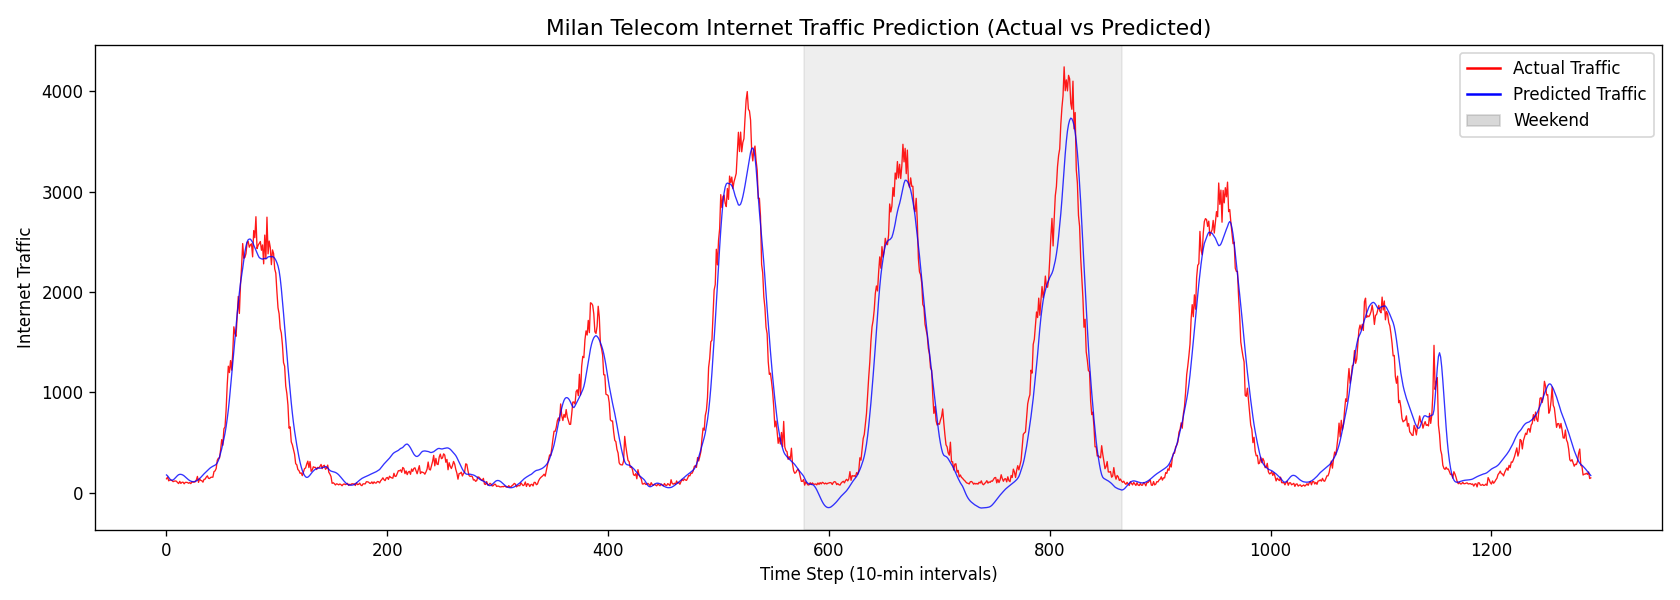
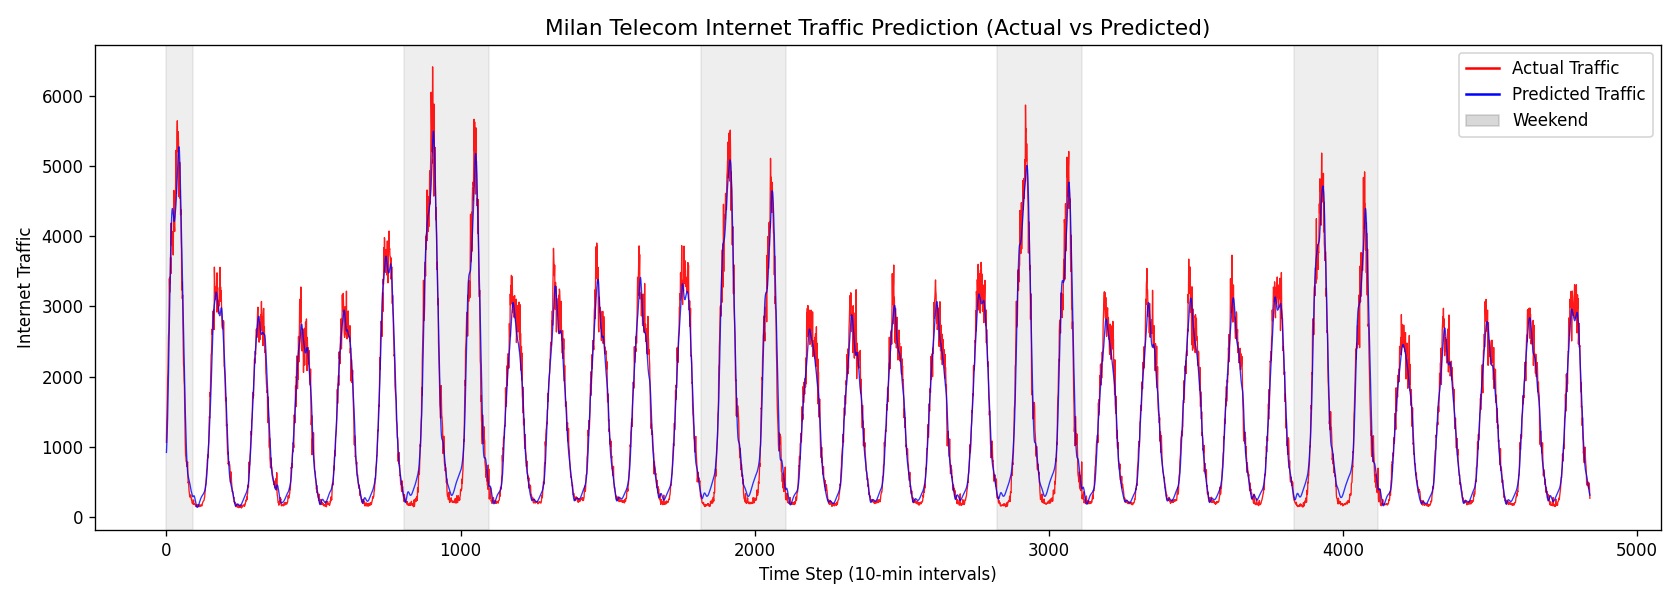
fix error

diff --git a/public/index.html b/public/index.html
@@ -831,14 +831,11 @@
                     <button class="toast-close" id="btnToastClose"><i class="fa fa-times"></i></button>
                 </div>
                 <div class="retrain-toast-body">
-                    RMSE 임계값을 초과했습니다. 재학습 여부를 결정하세요.
+                    RMSE 임계값을 초과했습니다. 분석 보고서를 확인하세요.
                 </div>
                 <div style="display:flex; gap:6px;">
-                    <button class="btn-primary-action" id="btnRetrain">
-                        <i class="fa fa-check"></i> 확인
-                    </button>
-                    <button class="btn-secondary-action" id="btnReject">
-                        <i class="fa fa-times"></i> 거부
+                    <button class="btn-primary-action" id="btnViewReport">
+                        <i class="fa fa-file-alt"></i> 보고서 확인
                     </button>
                 </div>
             </div>

diff --git a/public/js/telecom.js b/public/js/telecom.js
@@ -7,6 +7,21 @@ if (btnViewReport) {
     btnViewReport.addEventListener("click", function () {
         var toast = document.getElementById("retrainToast");
         if (toast) toast.classList.remove("show");
+        var panel = document.getElementById("reportPanel");
+        var btnReport = document.getElementById("btnReport");
+
+        if (panel) {
+            panel.style.display = "block";
+            panel.scrollIntoView({ behavior: "smooth", block: "start" });
+        }
+
+        // 대시보드 내 보고서 생성 버튼이 있으면 바로 실행
+        if (btnReport) {
+            btnReport.click();
+            return;
+        }
+
+        // fallback: 별도 report 페이지로 이동
         window.location.href = "/report.html";
     });
 }

diff --git a/server_model/main.py b/server_model/main.py
@@ -43,6 +43,7 @@ PUBLIC_DIR = STD_DIR / "public"
 
 APP_ROOT_PATH = os.getenv("APP_ROOT_PATH", "").rstrip("/")
 timezone      = pytz.timezone("Asia/Seoul")
+CUMULATIVE_DATA_PATH = Path(UPLOAD_DIR) / "_cumulative_training.csv"
 
 # ------------------------------------------------------------------
 # 전역 상태 (단일 프로세스 데모용)
@@ -53,6 +54,7 @@ app_state: dict = {
     "needs_retrain"      : False,
     "mode"               : "manual",   # "manual" | "auto"
     "retrain_history"    : [],         # [{timestamp, old_rmse, new_rmse}]
+    "cumulative_dataset_path": str(CUMULATIVE_DATA_PATH),
 }
 
 router = APIRouter()
@@ -135,6 +137,50 @@ def _append_retrain_log(record: dict):
     log_path.write_text(json.dumps(logs, ensure_ascii=False, indent=2), encoding="utf-8")
 
 
+def _merge_to_cumulative(new_df: pd.DataFrame) -> tuple[pd.DataFrame, dict]:
+    """
+    누적 학습셋 갱신:
+    - 최초: 원본 데이터(있으면) + 신규 업로드
+    - 이후: 기존 누적 + 신규 업로드
+    """
+    frames = []
+    prev_rows = 0
+    original_rows = 0
+    if CUMULATIVE_DATA_PATH.exists():
+        try:
+            prev_df = pd.read_csv(CUMULATIVE_DATA_PATH)
+            prev_rows = len(prev_df)
+            frames.append(prev_df)
+        except Exception:
+            pass
+    else:
+        original_path = Path(ORIGINAL_DATA_PATH)
+        if original_path.exists():
+            try:
+                original_df = pd.read_csv(original_path)
+                original_rows = len(original_df)
+                frames.append(original_df)
+            except Exception:
+                pass
+
+    frames.append(new_df)
+    merged = pd.concat(frames, ignore_index=True) if len(frames) > 1 else new_df.copy()
+    raw_rows = len(merged)
+    # 동일 파일 재업로드 시 중복 누적 방지
+    merged = merged.drop_duplicates().reset_index(drop=True)
+    dedup_removed = raw_rows - len(merged)
+    CUMULATIVE_DATA_PATH.parent.mkdir(parents=True, exist_ok=True)
+    merged.to_csv(CUMULATIVE_DATA_PATH, index=False)
+    stats = {
+        "new_rows": len(new_df),
+        "prev_rows": prev_rows,
+        "original_rows": original_rows,
+        "merged_rows": len(merged),
+        "dedup_removed": dedup_removed,
+    }
+    return merged, stats
+
+
 def _generate_template_report(rmse: float, needs: bool) -> str:
     status = "임계값 초과" if needs else "정상 범위"
     rec    = "재학습 및 재배포를 권고합니다." if needs else "현 모델 유지를 권고합니다."
@@ -200,6 +246,22 @@ async def init_dashboard():
     if not Path(MODEL_SAVE_PATH).exists():
         return {"model_ready": False, "message": "저장된 모델 없음"}
 
+    # 가장 최근 차트 결과가 있으면 그대로 반환 (재학습/업로드 반영)
+    if app_state.get("last_chart_payload"):
+        payload = app_state["last_chart_payload"]
+        return {
+            "model_ready"             : True,
+            "skip_retrain_check"      : True,
+            "result_evaluating_LSTM"  : payload.get("result_evaluating_LSTM"),
+            "needs_retrain"           : False,
+            "rmse_threshold"          : RMSE_THRESHOLD,
+            "mode"                    : app_state["mode"],
+            "actual_series"           : payload.get("actual_series", []),
+            "pred_series"             : payload.get("pred_series", []),
+            "time_index"              : payload.get("time_index", []),
+            "retrain_history"         : app_state.get("retrain_history", []),
+        }
+
     # 최근 업로드 데이터가 있으면 우선 사용
     last_path = app_state.get("last_dataset_path")
     candidate_path = Path(last_path) if last_path else Path(ORIGINAL_DATA_PATH)
@@ -254,6 +316,15 @@ async def post_data_set(file: UploadFile = File(...)):
         await asyncio.to_thread(file_location.write_bytes, contents)
 
         dataset = await _read_csv_async(file_location)
+        cumulative_dataset, merge_stats = await asyncio.to_thread(_merge_to_cumulative, dataset)
+        print(
+            "[upload] rows "
+            f"new_csv={merge_stats['new_rows']}, "
+            f"prev_cumulative={merge_stats['prev_rows']}, "
+            f"original_seed={merge_stats['original_rows']}, "
+            f"total_cumulative={merge_stats['merged_rows']}, "
+            f"dedup_removed={merge_stats['dedup_removed']}"
+        )
 
         weight_mod = importlib.import_module(".weight_used_model", package=__package__)
         model_mod  = importlib.import_module(".model",             package=__package__)
@@ -261,9 +332,12 @@ async def post_data_set(file: UploadFile = File(...)):
         # 저장된 모델이 없으면 최초 학습
         if not Path(MODEL_SAVE_PATH).exists():
             print("[upload] No saved model found. Training from scratch...")
-            await asyncio.to_thread(model_mod.train_and_save, dataset)
+            await asyncio.to_thread(model_mod.train_and_save, cumulative_dataset)
 
-        # 추론
+        # 누적 데이터(기존+신규) 전체를 그래프용으로 사용
+        combined_df = cumulative_dataset
+
+        # RMSE는 업로드 데이터 기준
         plot_path, rmse, actual_list, pred_list, date_list = await asyncio.to_thread(weight_mod.process, dataset)
         img1 = Path(plot_path)
         if not img1.exists():
@@ -271,10 +345,29 @@ async def post_data_set(file: UploadFile = File(...)):
 
         retrain_needed = weight_mod.needs_retrain(rmse)
 
+        # 그래프는 합산 데이터 기준으로 교체
+        if combined_df is not None and len(combined_df) > len(dataset):
+            comb_plot, _, comb_actual, comb_pred, comb_dates = await asyncio.to_thread(
+                weight_mod.process, combined_df
+            )
+            comb_img = Path(comb_plot)
+            if comb_img.exists():
+                img1 = comb_img
+            actual_list = comb_actual
+            pred_list   = comb_pred
+            date_list   = comb_dates
+
         # 전역 상태 갱신
         app_state["last_rmse"]         = rmse
         app_state["last_dataset_path"] = str(file_location)
         app_state["needs_retrain"]     = retrain_needed
+        app_state["last_chart_payload"] = {
+            "actual_series": actual_list,
+            "pred_series"  : pred_list,
+            "time_index"   : date_list,
+            "rmse_threshold": RMSE_THRESHOLD,
+            "result_evaluating_LSTM": round(rmse, 4),
+        }
 
         result = {
             "result_visualizing_LSTM" : _b64_png(img1),
@@ -292,7 +385,7 @@ async def post_data_set(file: UploadFile = File(...)):
         # 자동 모드: 임계 초과 시 즉시 재학습
         if retrain_needed and app_state["mode"] == "auto":
             print("[upload] Auto mode: triggering retrain...")
-            await asyncio.to_thread(model_mod.train_and_save, dataset)
+            await asyncio.to_thread(model_mod.train_and_save, cumulative_dataset)
             new_plot, new_rmse, new_actual, new_pred, new_dates = await asyncio.to_thread(weight_mod.process, dataset)
             app_state["last_rmse"]     = new_rmse
             app_state["needs_retrain"] = new_rmse > RMSE_THRESHOLD
@@ -304,10 +397,28 @@ async def post_data_set(file: UploadFile = File(...)):
             })
             result["auto_retrained"] = True
             result["new_rmse"]       = round(new_rmse, 4)
-            result["result_visualizing_LSTM"] = _b64_png(Path(new_plot))
-            result["actual_series"]  = new_actual
-            result["pred_series"]    = new_pred
-            result["time_index"]     = new_dates
+            # 재학습 후 그래프도 합산 데이터 기준으로 교체
+            if combined_df is not None and len(combined_df) > len(dataset):
+                comb_plot, _, comb_actual, comb_pred, comb_dates = await asyncio.to_thread(
+                    weight_mod.process, combined_df
+                )
+                comb_img = Path(comb_plot)
+                result["result_visualizing_LSTM"] = _b64_png(comb_img) if comb_img.exists() else _b64_png(Path(new_plot))
+                result["actual_series"]  = comb_actual
+                result["pred_series"]    = comb_pred
+                result["time_index"]     = comb_dates
+            else:
+                result["result_visualizing_LSTM"] = _b64_png(Path(new_plot))
+                result["actual_series"]  = new_actual
+                result["pred_series"]    = new_pred
+                result["time_index"]     = new_dates
+            app_state["last_chart_payload"] = {
+                "actual_series": result["actual_series"],
+                "pred_series"  : result["pred_series"],
+                "time_index"   : result["time_index"],
+                "rmse_threshold": RMSE_THRESHOLD,
+                "result_evaluating_LSTM": round(new_rmse, 4),
+            }
 
         return result
 
@@ -333,20 +444,39 @@ async def retrain():
         uploaded_df = await _read_csv_async(Path(dataset_path))
         old_rmse    = app_state.get("last_rmse", 0.0)
 
-        # 원본 학습 데이터 + 업로드 CSV 합산
-        original_path = Path(ORIGINAL_DATA_PATH)
-        if original_path.exists() and str(dataset_path) != str(original_path):
-            original_df = await _read_csv_async(original_path)
-            dataset = pd.concat([original_df, uploaded_df], ignore_index=True)
-            print(f"[retrain] 원본 {len(original_df)}행 + 업로드 {len(uploaded_df)}행 = 합산 {len(dataset)}행")
+        # 누적 학습 데이터(기존+신규 전체) 기준으로 재학습
+        if CUMULATIVE_DATA_PATH.exists():
+            dataset = await _read_csv_async(CUMULATIVE_DATA_PATH)
+            print(
+                "[retrain] rows "
+                f"uploaded_csv={len(uploaded_df)}, "
+                f"cumulative_total={len(dataset)}"
+            )
         else:
-            dataset = uploaded_df
+            dataset, merge_stats = await asyncio.to_thread(_merge_to_cumulative, uploaded_df)
+            print(
+                "[retrain] rows "
+                f"uploaded_csv={merge_stats['new_rows']}, "
+                f"prev_cumulative={merge_stats['prev_rows']}, "
+                f"original_seed={merge_stats['original_rows']}, "
+                f"total_cumulative={merge_stats['merged_rows']}, "
+                f"dedup_removed={merge_stats['dedup_removed']}"
+            )
 
         await asyncio.to_thread(model_mod.train_and_save, dataset)
         # 평가/시각화는 업로드 데이터 기준으로 수행
         new_plot, new_rmse, actual_list, pred_list, date_list = await asyncio.to_thread(
             weight_mod.process, uploaded_df
         )
+        # 그래프는 누적 데이터 기준으로 교체
+        if len(dataset) > len(uploaded_df):
+            comb_plot, _, comb_actual, comb_pred, comb_dates = await asyncio.to_thread(
+                weight_mod.process, dataset
+            )
+            new_plot   = comb_plot
+            actual_list = comb_actual
+            pred_list   = comb_pred
+            date_list   = comb_dates
 
         app_state["last_rmse"]     = new_rmse
         app_state["needs_retrain"] = new_rmse > RMSE_THRESHOLD
@@ -356,6 +486,13 @@ async def retrain():
             "old_rmse" : round(old_rmse, 4),
             "new_rmse" : round(new_rmse, 4),
         })
+        app_state["last_chart_payload"] = {
+            "actual_series": actual_list,
+            "pred_series"  : pred_list,
+            "time_index"   : date_list,
+            "rmse_threshold": RMSE_THRESHOLD,
+            "result_evaluating_LSTM": round(new_rmse, 4),
+        }
 
         img = Path(new_plot)
         return {

diff --git a/server_model/model.py b/server_model/model.py
@@ -17,14 +17,8 @@ from keras.layers import Dense, LSTM, Dropout
 
 from config import (
     MODEL_SAVE_PATH, MODEL_PLOT_PATH, MODEL_SHAPES_PLOT_PATH,
-    PREDICTION_PLOT_PATH, LOOKBACK, TRAIN_RATIO
+    PREDICTION_PLOT_PATH, LOOKBACK
 )
-
-def _get_splits(n: int):
-    """데이터 크기 n에 맞게 train/test 스텝 수 동적 계산"""
-    train = int(n * TRAIN_RATIO)
-    test  = n - train
-    return train, test
 
 FEATURE_COLS = ["internet", "smsin", "callin", "hour", "dayofweek", "is_weekend"]
 TARGET_IDX   = 0  # internet 컬럼 인덱스
@@ -112,17 +106,16 @@ def train_and_save(df: pd.DataFrame) -> tuple:
     data = agg.values  # shape: (N, 6)
 
     n = len(data)
-    train_steps, test_steps = _get_splits(n)
-    print(f"[train] 전체={n}, train={train_steps}, test={test_steps}")
+    print(f"[train] 전체={n}, train={n} (full dataset)")
 
-    # Scaler는 train 구간만으로 fit (데이터 누수 방지)
-    train_data = data[:train_steps]
+    # 요청사항: 분할 없이 전체 데이터를 학습에 사용
+    train_data = data
     sc = MinMaxScaler(feature_range=(0, 1))
     sc.fit(train_data)
     full_scaled = sc.transform(data)
 
     # train 시퀀스 생성
-    X_train, y_train = _make_sequences(full_scaled, LOOKBACK, train_steps - LOOKBACK)
+    X_train, y_train = _make_sequences(full_scaled, LOOKBACK, n - LOOKBACK)
 
     regressor = Sequential([
         LSTM(units=64, return_sequences=True, input_shape=(LOOKBACK, len(FEATURE_COLS))),
@@ -134,7 +127,8 @@ def train_and_save(df: pd.DataFrame) -> tuple:
         Dense(units=1),
     ])
     regressor.compile(optimizer="adam", loss="mean_squared_error")
-    regressor.fit(X_train, y_train, epochs=3, batch_size=64, verbose=1)
+    # verbose=2: epoch 단위 요약 로그만 출력 (진행바 스팸 방지)
+    regressor.fit(X_train, y_train, epochs=3, batch_size=64, verbose=2)
 
     os.makedirs(os.path.dirname(MODEL_SAVE_PATH), exist_ok=True)
     regressor.save(MODEL_SAVE_PATH)
@@ -149,9 +143,9 @@ def train_and_save(df: pd.DataFrame) -> tuple:
     except Exception:
         pass
 
-    # 최종 평가는 test 구간만 사용
-    test_start = train_steps
-    X_test, _ = _make_sequences(full_scaled, test_start, test_steps)
+    # 참고 RMSE: 전체 기간(LOOKBACK 이후) 기준
+    test_start = LOOKBACK
+    X_test, _ = _make_sequences(full_scaled, test_start, n - test_start)
 
     pred_scaled = regressor.predict(X_test, verbose=0)
 
@@ -178,15 +172,13 @@ def process(df: pd.DataFrame) -> tuple:
     data = agg.values
 
     n = len(data)
-    train_steps, test_steps = _get_splits(n)
-
-    train_data = data[:train_steps]
+    train_data = data
     sc = MinMaxScaler(feature_range=(0, 1))
     sc.fit(train_data)
     full_scaled = sc.transform(data)
 
-    test_start = train_steps
-    X_test, _ = _make_sequences(full_scaled, test_start, test_steps)
+    test_start = LOOKBACK
+    X_test, _ = _make_sequences(full_scaled, test_start, n - test_start)
 
     mdl = load_model(MODEL_SAVE_PATH)
     pred_scaled = mdl.predict(X_test, verbose=0)
